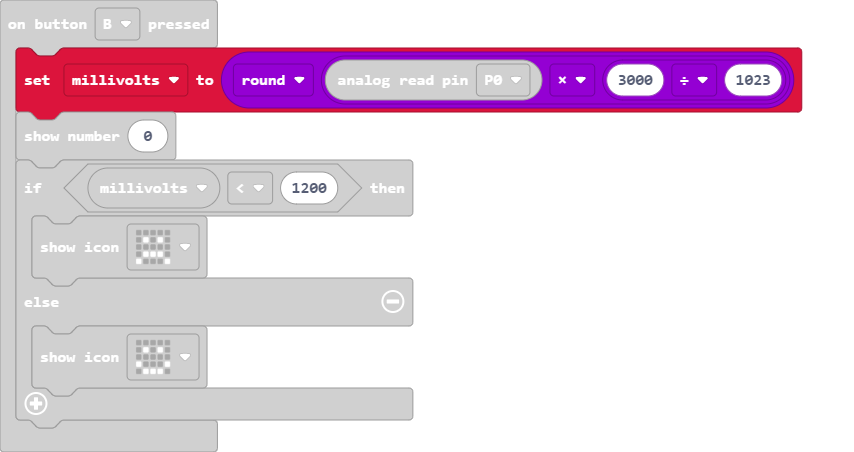
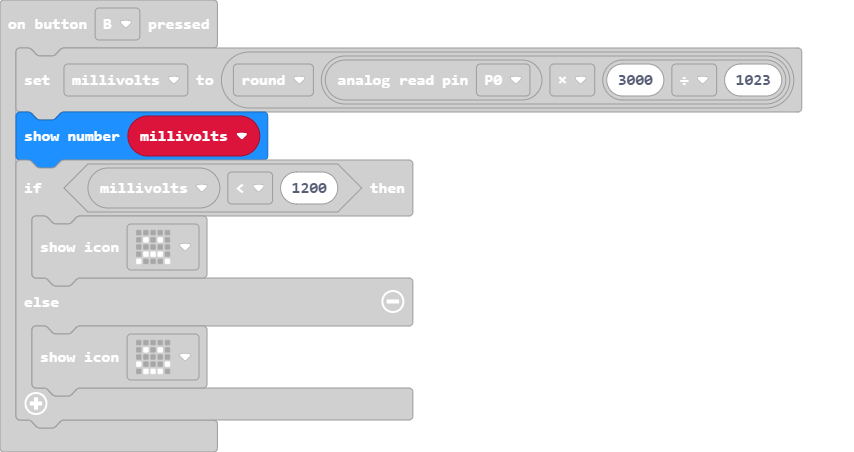
Update main.blocks, main.ts

Changed region(s): [[0.0, 0.0929, 0.9438, 0.3717]]

diff --git a/main.ts b/main.ts
@@ -3,7 +3,7 @@ input.onButtonPressed(Button.A, function () {
 })
 input.onButtonPressed(Button.B, function () {
     millivolts = Math.round(pins.analogReadPin(AnalogPin.P0) * (3000 / 1023))
-    basic.showNumber(0)
+    basic.showNumber(millivolts)
     if (millivolts < 1200) {
         basic.showIcon(IconNames.Sad)
     } else {
